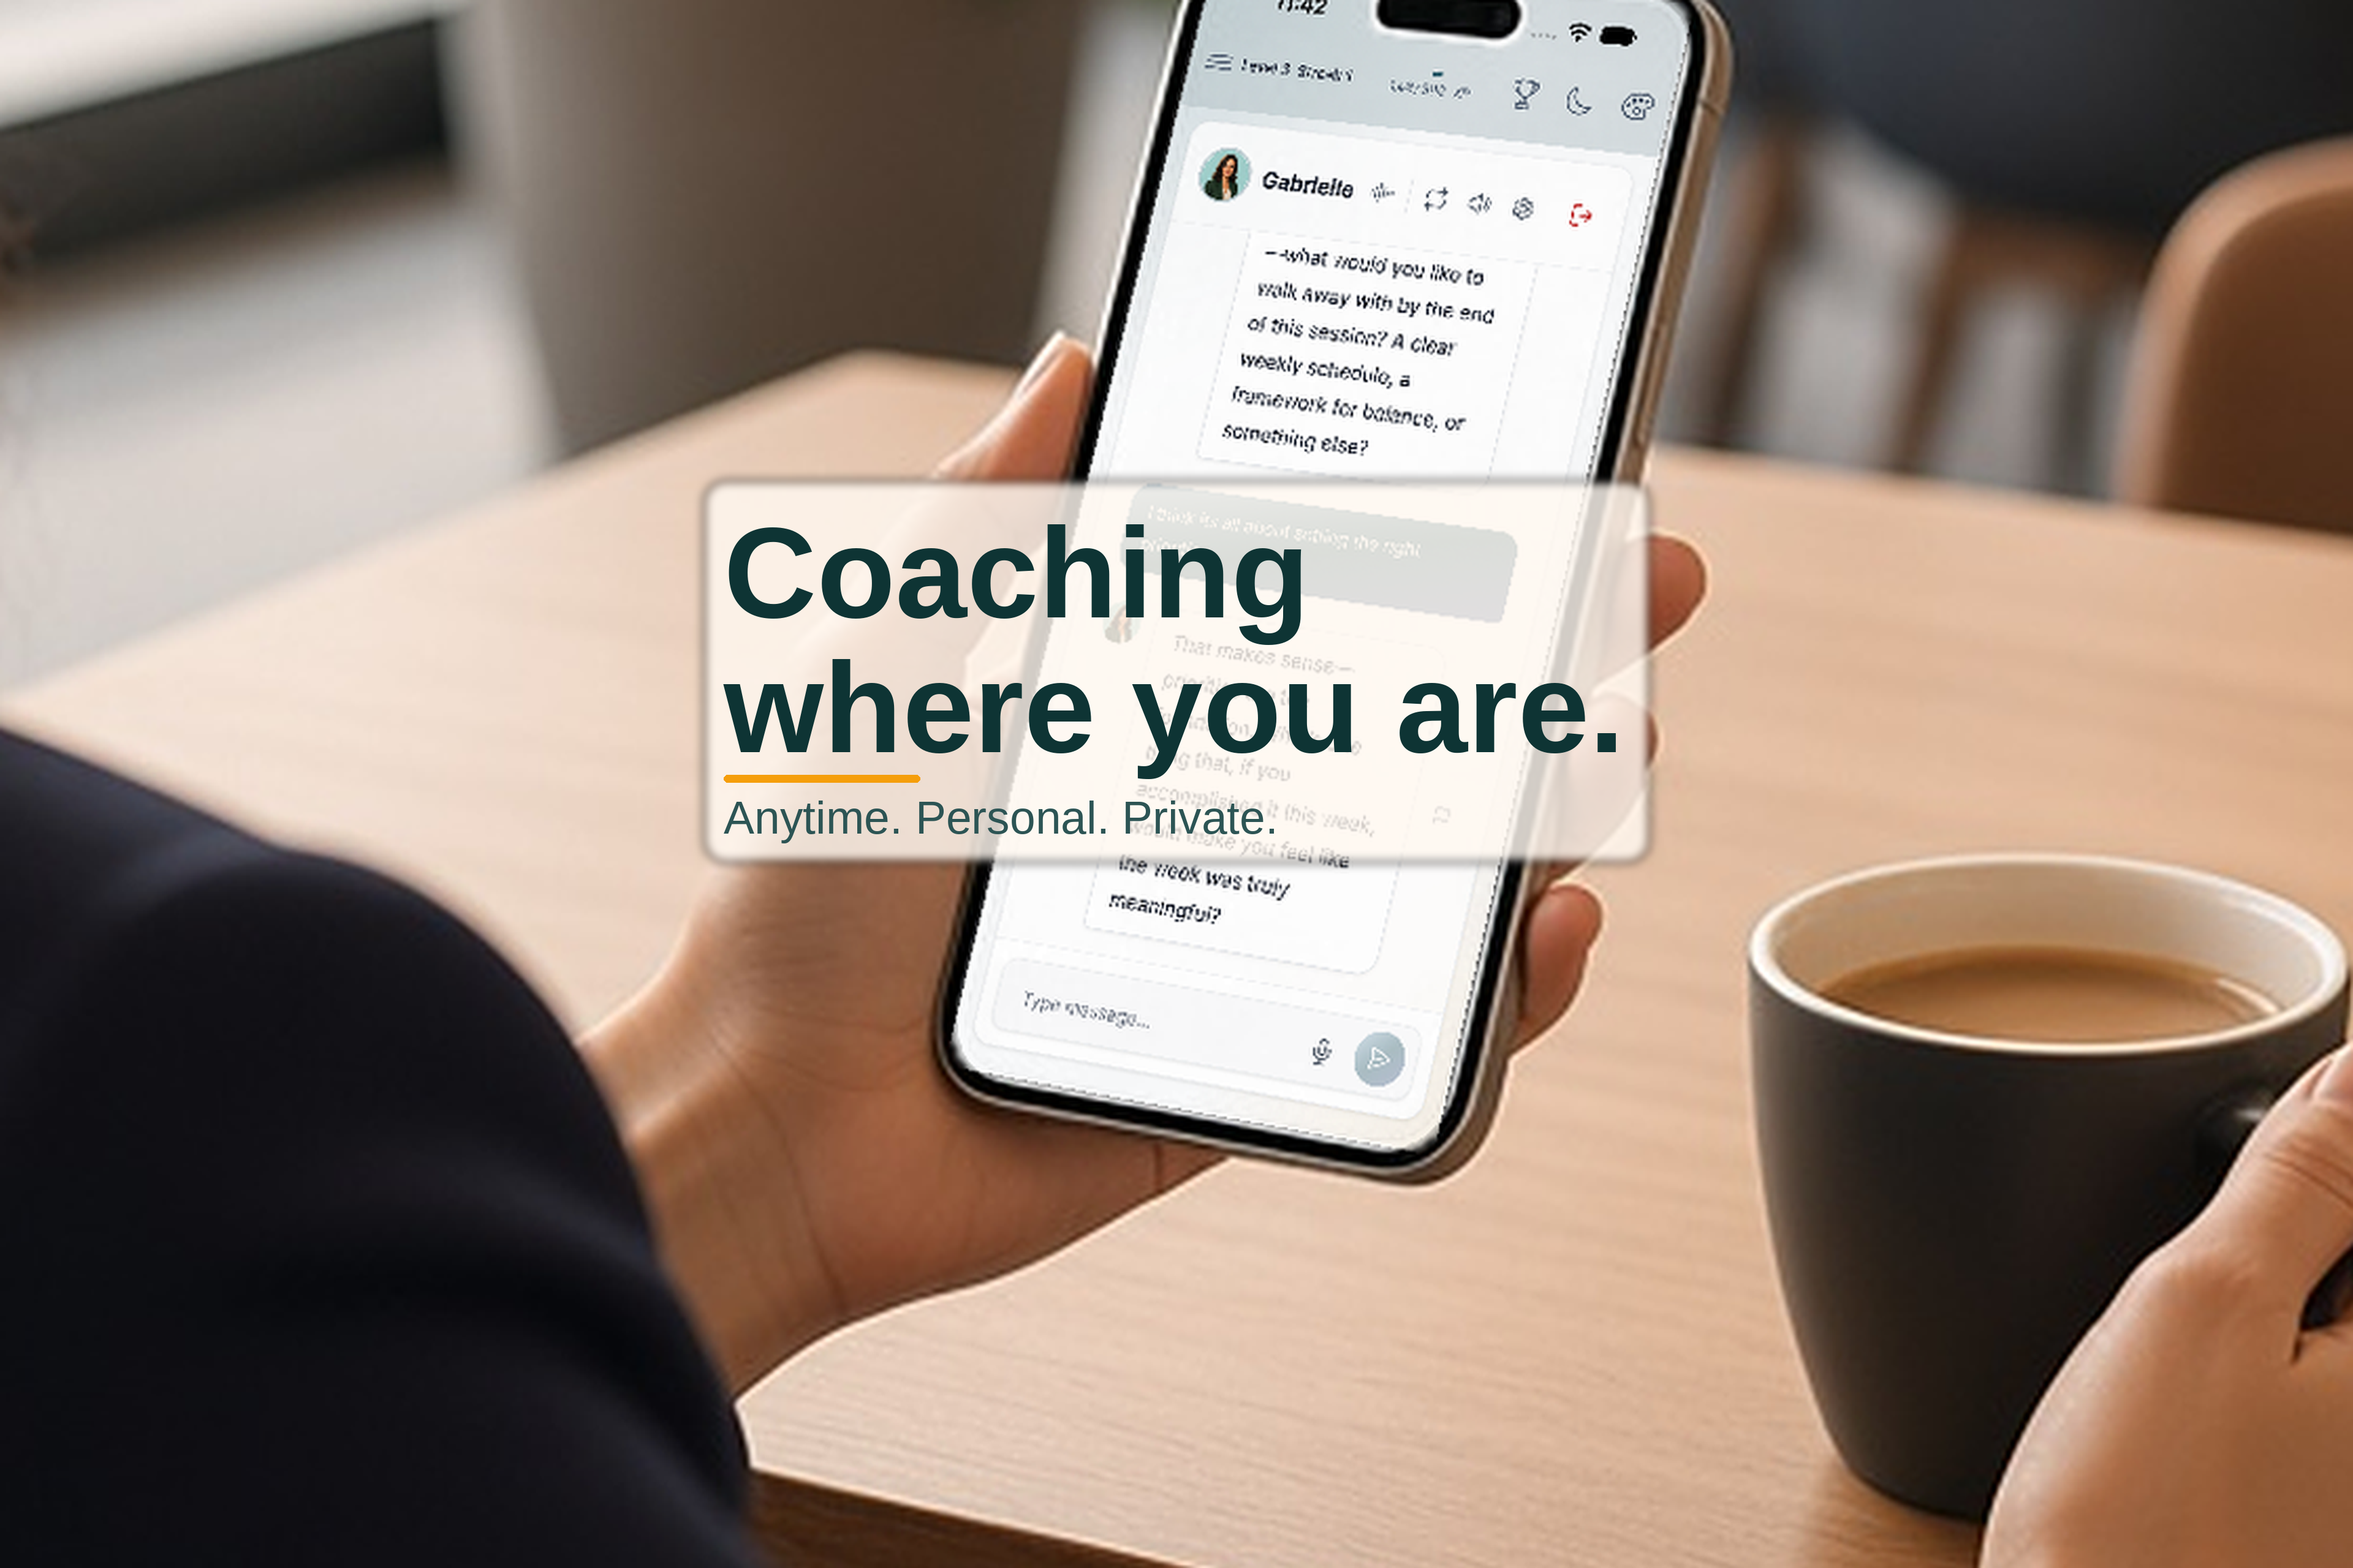
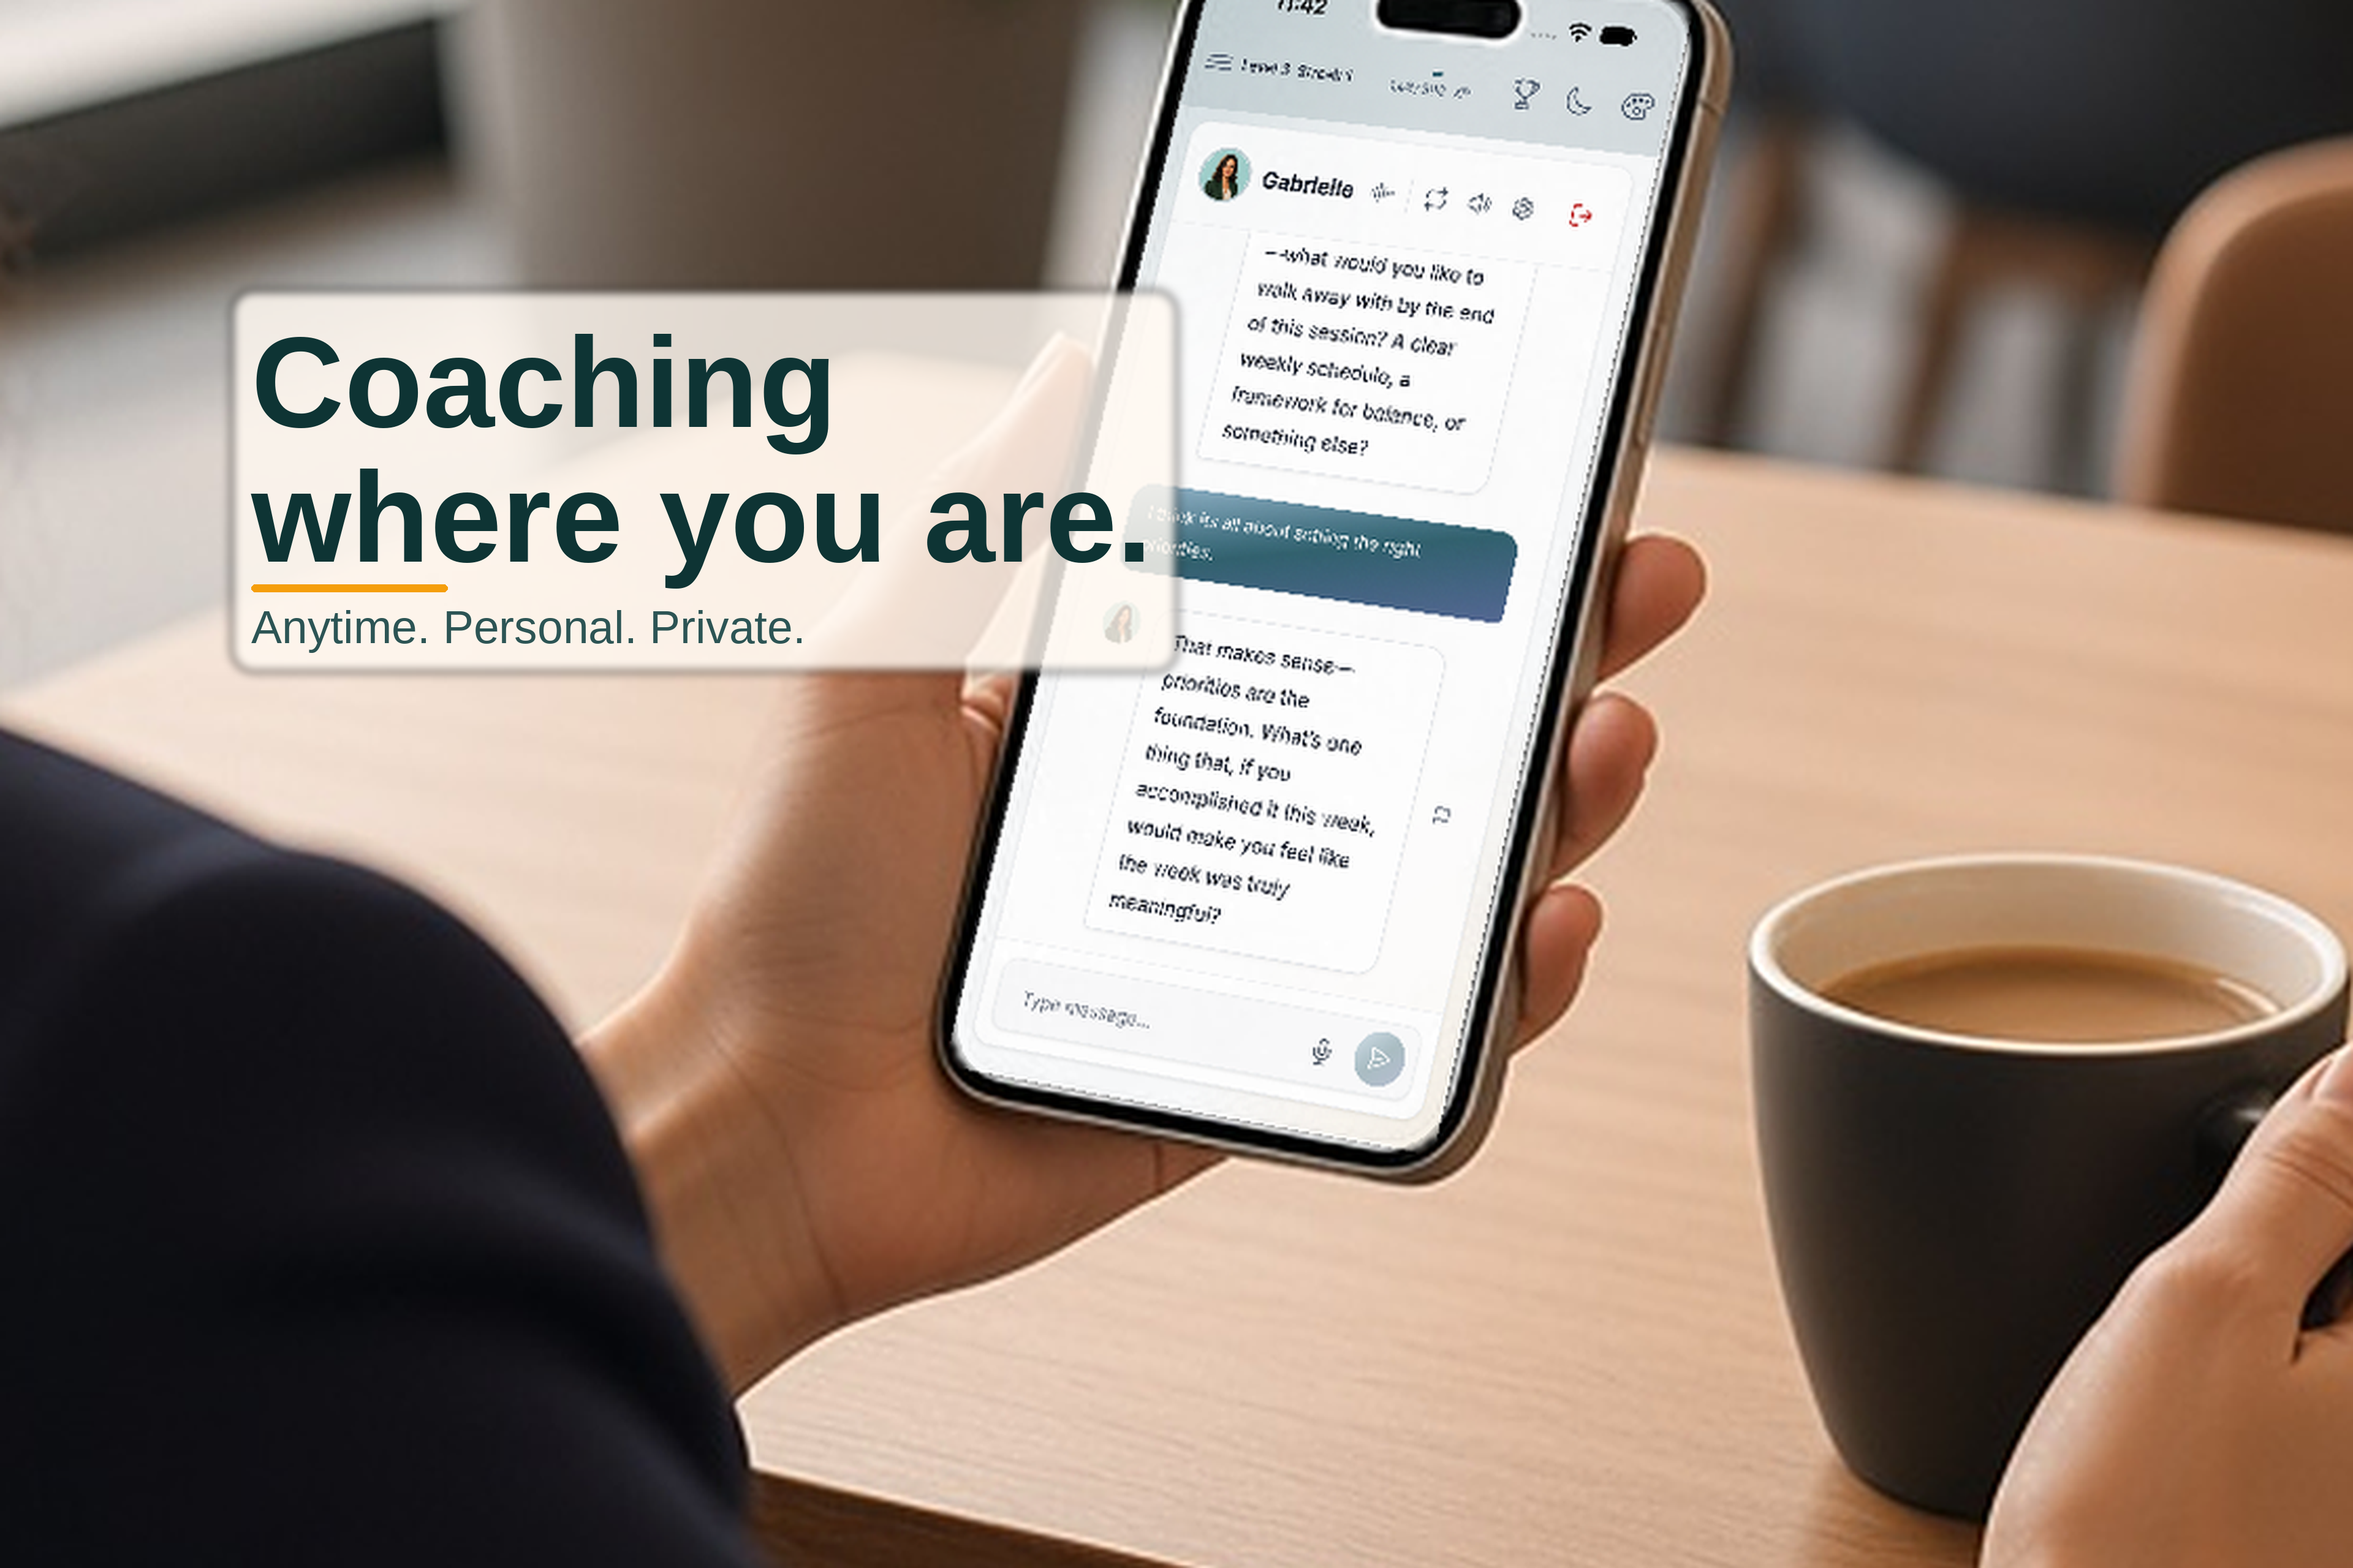
fix(asc): shift search headline card left and up
Move the search card by half its width left and half its height up
so the phone stays readable beside it.

Changed region(s): [[0.0938, 0.1562, 0.7188, 0.5625]]

diff --git a/scripts/compose-asc-product-page-header.py b/scripts/compose-asc-product-page-header.py
@@ -209,6 +209,8 @@ def paint_card(
     sub_ratio: float = 0.42,
     pad: int = 48,
     anchor: str = "center",
+    shift_x: float = 0,
+    shift_y: float = 0,
 ) -> Image.Image:
     """Draw the headline card so the whole rounded box stays inside `bounds`."""
     meta = COPY[locale]
@@ -235,11 +237,12 @@ def paint_card(
     block_h = title_h * len(lines) + 28 + body_h
     box_w = min(inner_w, int(_text_width(longest, title_font)) + 8) + pad * 2
     box_h = block_h + pad * 2
-    left = x0 + ((x1 - x0) - box_w) // 2
+    left = x0 + ((x1 - x0) - box_w) // 2 + int(box_w * shift_x)
     if anchor == "top":
         top = y0 + 8
     else:
         top = y0 + ((y1 - y0) - box_h) // 2
+    top += int(box_h * shift_y)
     box = (left, top, left + box_w, top + box_h)
 
     scrim = Image.new("RGBA", canvas.size, (0, 0, 0, 0))

diff --git a/scripts/compose-asc-universal-asset.py b/scripts/compose-asc-universal-asset.py
@@ -80,6 +80,8 @@ def place(locale: str, guides: bool) -> Image.Image:
         sub_ratio=0.36,
         pad=32,
         anchor="top",
+        shift_x=-0.5,
+        shift_y=-0.5,
     )
     if guides:
         ImageDraw.Draw(canvas).rectangle(
